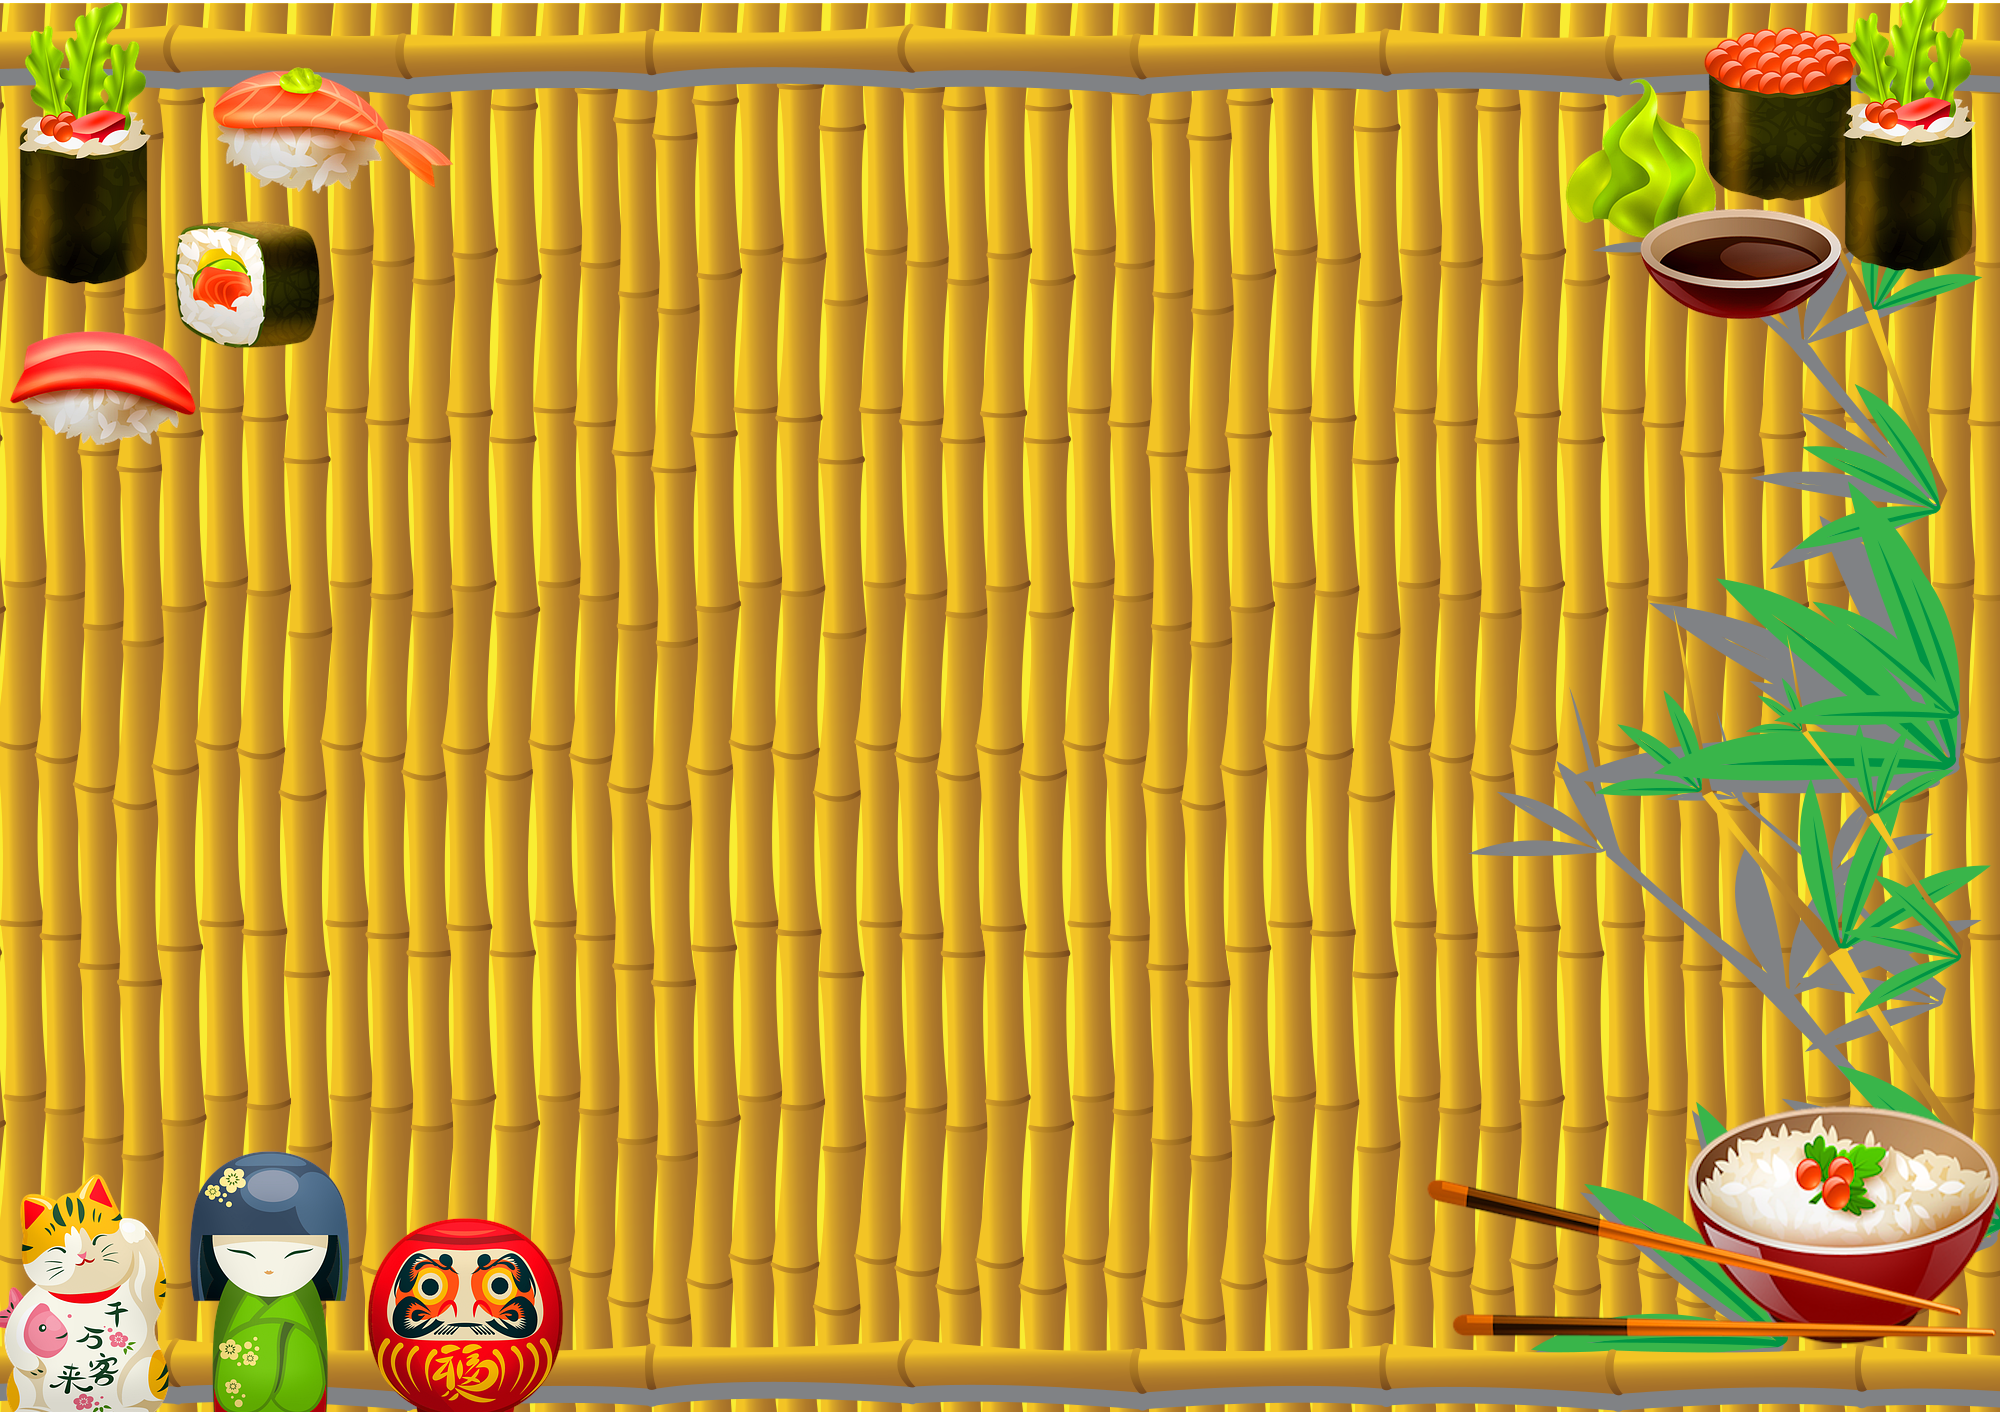
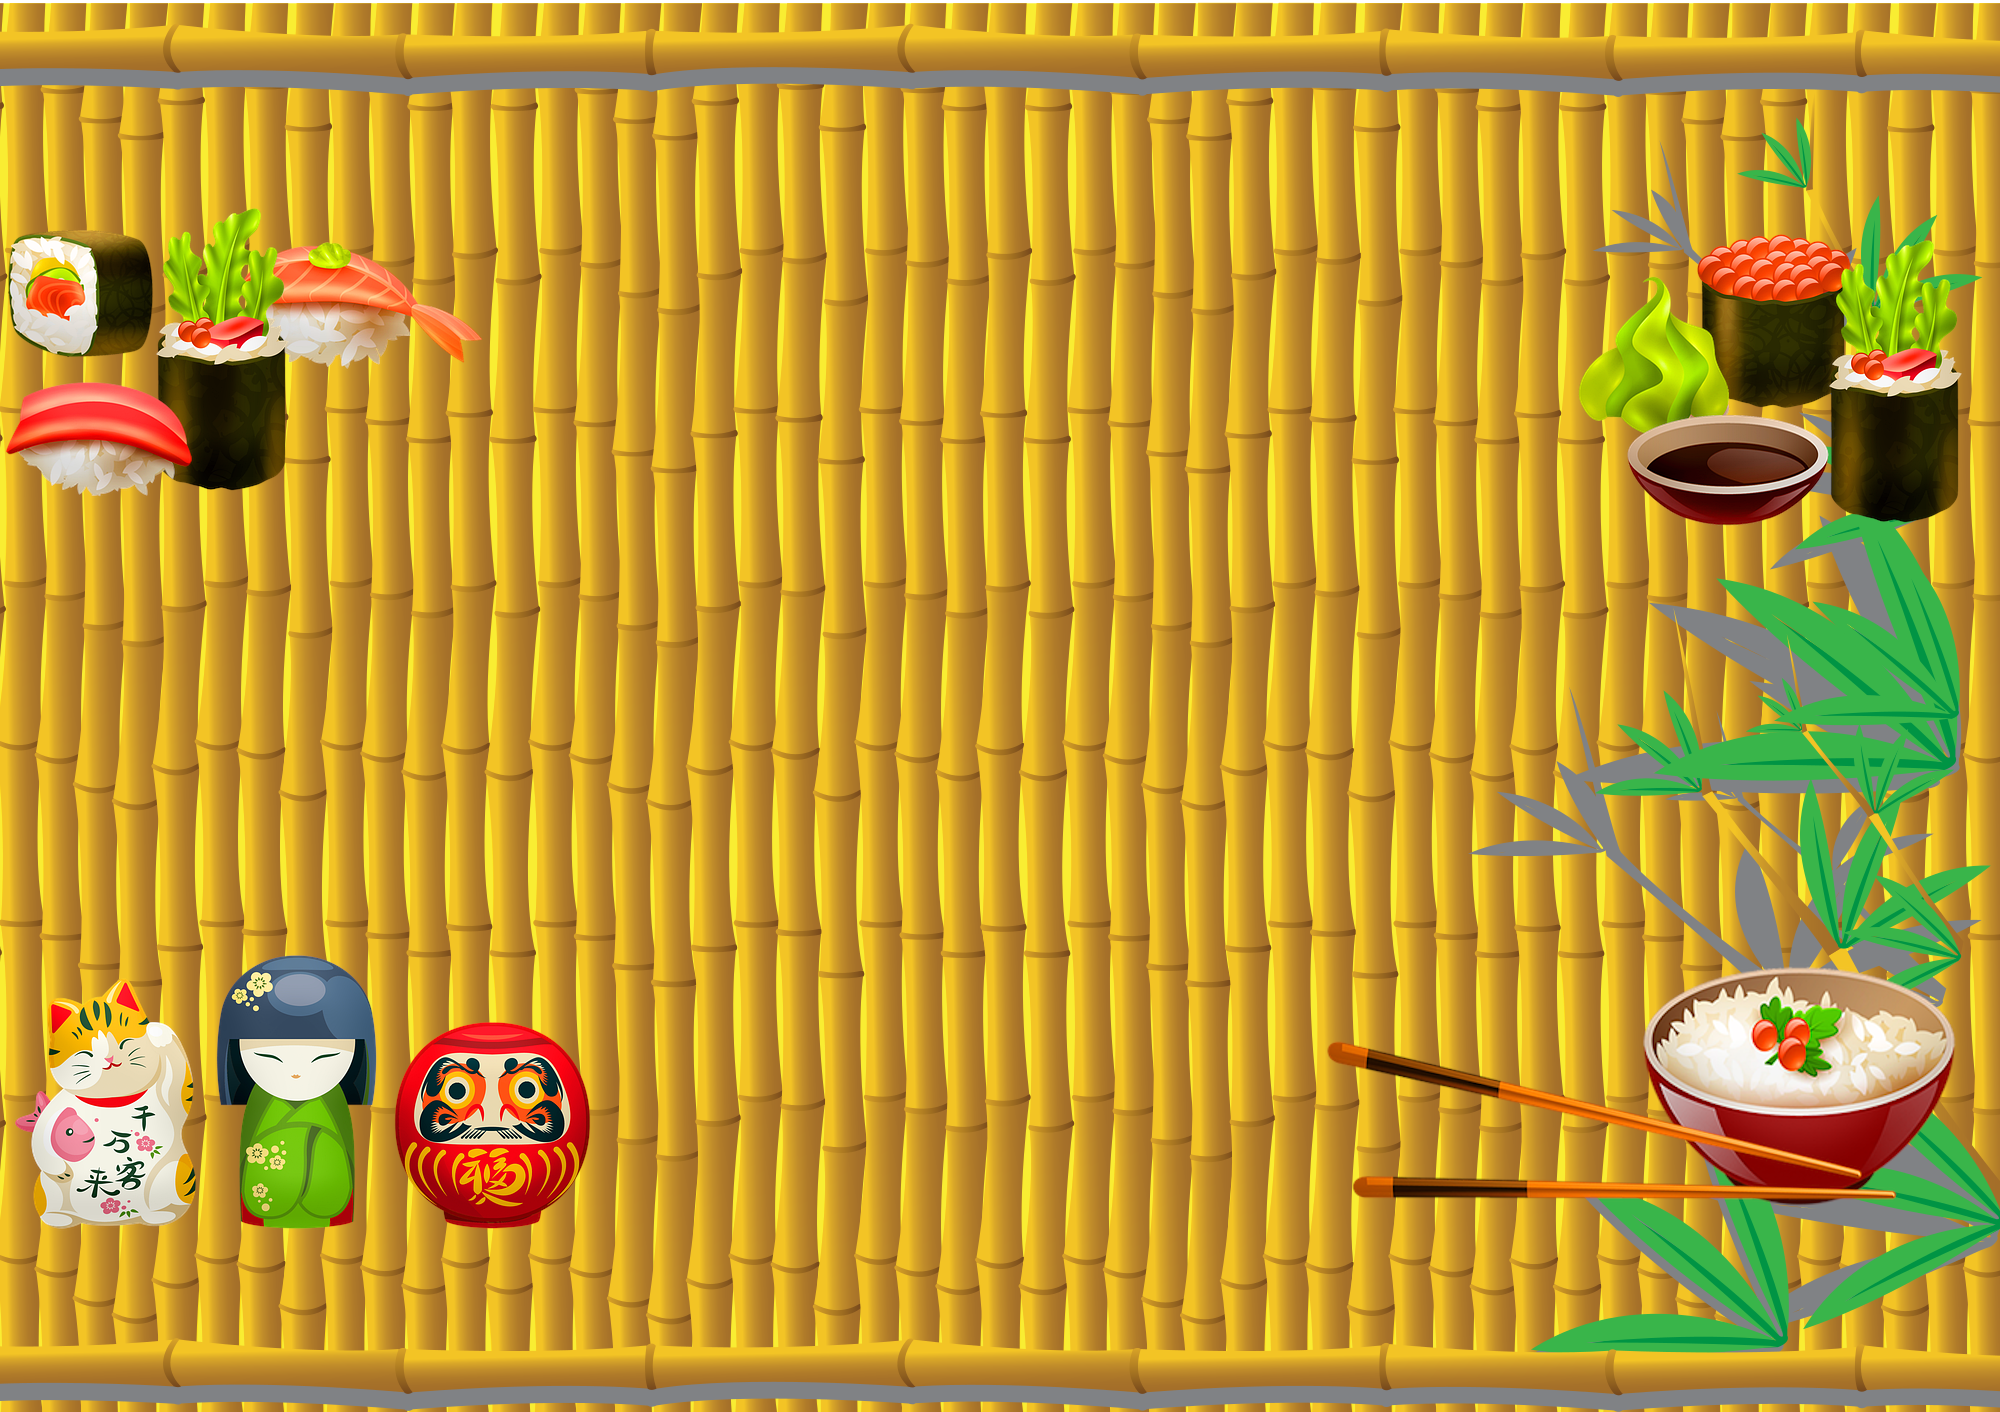
lau fix

diff --git a/assets/js/script.js b/assets/js/script.js
@@ -1,4 +1,3 @@
-
 (() => {
 
     let default_game = {
@@ -7,16 +6,16 @@
         price_multiplier: 20,
         autoclick: 0,
         price_autoclick: 100,
-        seconds: 30,        //the timer of the boost
+        seconds: 30, //the timer of the boost indicator
         boost: 1,
         price_boost: 150,
         timer_autoclick: null,
-        boostLaunch: false  //false means the boost isn't activated
+        boostLaunch: false //false means the boost isn't activated
 
     }
 
     const multiplier_augment = 2;
-    const price_augment = 3;    //the multiplier for each price
+    const price_augment = 3; //the multiplier for each price
     const speed = 1000;
 
     let my_game;
@@ -28,47 +27,46 @@
         my_game = localStorage.getItem("data");
 
         //my_game = null
-        if (!my_game){
+        if (!my_game) {
             my_game = default_game;
-        }
-        else {
+        } else {
             my_game = JSON.parse(my_game);
             my_game.timer_autoclick = setInterval(() => {
                 change_score(my_game.autoclick);
             }, speed);
-            if (my_game.boostLaunch){
+            if (my_game.boostLaunch) {
                 setTimeout(timer, speed);
             }
         }
 
 
         document.getElementById("score").innerHTML = my_game.cookie_counter;
-        document.getElementById("multiPrice").innerHTML = `Price: ${my_game.price_multiplier} sushi`;
-        document.getElementById("multi").innerHTML= `Multiplier x ${my_game.multiplier} `;
+        document.getElementById("multiPrice").innerHTML = `Cost: ${my_game.price_multiplier} Sushis`;
+        document.getElementById("multi").innerHTML = `Multiplier x ${my_game.multiplier} `;
         document.getElementById("auto").innerHTML = `${my_game.autoclick} autoclick`;
-        document.getElementById("autoPrice").innerHTML = `Price: ${my_game.price_autoclick} sushi`;
+        document.getElementById("autoPrice").innerHTML = `Cost: ${my_game.price_autoclick} Sushis`;
         document.getElementById("boost").innerHTML = `Boost: ${my_game.seconds} sec`;
-        document.getElementById("boostPrice").innerHTML = `Price: ${my_game.price_boost} sushi`;
+        document.getElementById("boostPrice").innerHTML = `Cost: ${my_game.price_boost} Sushis`;
 
     }
 
     function save_game() {
         /*
-            save_game() put the data of game on the localStorage
+            save_game() puts the data of game on the localStorage
         */
         localStorage.setItem("data", JSON.stringify(my_game));
         console.log("save");
         setTimeout(save_game, 10000);
     }
 
-    function timer(){
+    function timer() {
         /*
-            timer() is the time that the boost is activated
+            timer() is the time for which the boost is activated
         */
         my_game.seconds--;
 
         //boost is still activated
-        if(my_game.seconds > 0){
+        if (my_game.seconds > 0) {
             setTimeout(timer, speed);
         }
         //boost ended and must be reset
@@ -82,9 +80,9 @@
 
     }
 
-    function check_button(){
+    function check_button() {
         /*
-            check_button() check is each upgrade is buyable
+            check_button() check if each upgrade is buyable
         */
         document.getElementById("multi").disabled = my_game.cookie_counter < my_game.price_multiplier;
         document.getElementById("auto").disabled = my_game.cookie_counter < my_game.price_autoclick;
@@ -92,12 +90,12 @@
 
     }
 
-    function change_score(value){
+    function change_score(value) {
         /*
-            change_score() modify the score of the game
+            change_score() modifies the score of the game
         */
-       //new high score
-        if (value >= 0){
+        //new high score
+        if (value >= 0) {
             my_game.cookie_counter += (value * my_game.boost);
         }
         //buy at the store
@@ -116,20 +114,20 @@
 
     /* Multiplier button */
     document.getElementById("multi").addEventListener("click", () => {
-        
+
         my_game.price_multiplier *= price_augment;
         //give the previous price
         change_score(-(my_game.price_multiplier / price_augment));
         my_game.multiplier *= multiplier_augment;
-        
-        document.getElementById("multiPrice").innerHTML = `Price: ${my_game.price_multiplier} sushi`;
-        document.getElementById("multi").innerHTML= `Multiplier x ${my_game.multiplier} `;
+
+        document.getElementById("multiPrice").innerHTML = `Cost: ${my_game.price_multiplier} Sushis`;
+        document.getElementById("multi").innerHTML = `Multiplier x ${my_game.multiplier} `;
 
 
     });
     /* Autoclick*/
     document.getElementById("auto").addEventListener("click", () => {
-        
+
         if (my_game.autoclick == 0) {
             my_game.timer_autoclick = setInterval(() => {
                 change_score(my_game.autoclick);
@@ -137,11 +135,11 @@
         }
         my_game.autoclick++;
         my_game.price_autoclick *= price_augment;
-        //give the previous price
+        //gives the previous price
         change_score(-(my_game.price_autoclick / price_augment));
 
         document.getElementById("auto").innerHTML = `${my_game.autoclick} autoclick`;
-        document.getElementById("autoPrice").innerHTML = `Price: ${my_game.price_autoclick} sushi`;
+        document.getElementById("autoPrice").innerHTML = `Cost: ${my_game.price_autoclick} Sushis`;
 
     });
     /* Boost button */
@@ -149,17 +147,17 @@
 
         my_game.boostLaunch = true;
 
-        my_game.price_boost*= price_augment;
-        //give the previous price
+        my_game.price_boost *= price_augment;
+        //gives the previous price
         change_score(-(my_game.price_boost / price_augment));
-        
+
         my_game.boost = 3;
 
         setTimeout(timer, speed);
-        document.getElementById("boostPrice").innerHTML = `Price: ${my_game.price_boost} sushi`;
+        document.getElementById("boostPrice").innerHTML = `Cost: ${my_game.price_boost} Sushis`;
     });
 
-    
+
     clear_game();
     check_button();
     setTimeout(save_game, 10000);

diff --git a/index.html b/index.html
@@ -18,51 +18,50 @@
                 <h1>Sushi Clicker</h1>
             </div>
         </div>
-    </div>
 
-    <div class="row">
-        <div class="col-12">
-            <div class="material field with-indicator">
-                <span id="score" class="indicator1">000</span>
+        <div class="row">
+            <div class="col-12">
+                <div class="material field with-indicator">
+                    <span id="score" class="counter">000</span>
+                </div>
             </div>
+
         </div>
 
-    </div>
-
-    <div class="row">
-        <div class="col-12">
-            <button class="btn" id="cookie">
+        <div class="row">
+            <div class="col-12">
+                <a class="btn" id="cookie">
                     <img src="assets/img/sushi.png" alt="Clickable cookie" id="cook">
-            </button>
+                </a>
+            </div>
         </div>
-    </div>
 
-    <div class="row">
-        <div class="col-12 col-lg-4">
-            <div class="row">
-                <button class="btn1" id="multi">Multiplier x 1</button>
+        <div class="row">
+            <div class="col-12 col-lg-4">
+                <div class="row">
+                    <button class="btn1" id="multi">Multiplier x 1</button>
+                </div>
+                <div class="row">
+                    <span id="multiPrice" class="material cost">Cost: 20 Sushis</span>
+                </div>
             </div>
-            <div class="row">
-                <span id="multiPrice" class="material indicator">Cost: 20 Sushis</span>
+            <div class="col-12 col-lg-4">
+                <div class="row">
+                    <button class="btn1" id="auto">autoclick</button>
+                </div>
+                <div class="row">
+                    <span id="autoPrice" class=" material cost">Cost: 100 Sushis</span>
+                </div>
+            </div>
+            <div class="col-12 col-lg-4">
+                <div class="row">
+                    <button class="btn1" id="boost">Boost: 30 sec</button>
+                </div>
+                <div class="row">
+                    <span id="boostPrice" class="material cost">Cost: 150 Sushis</span>
+                </div>
             </div>
         </div>
-        <div class="col-12 col-lg-4">
-            <div class="row">
-                <button class="btn1" id="auto">autoclick</button>
-            </div>
-            <div class="row">
-                <span id="autoPrice" class=" material indicator">Cost: 100 Sushis</span>
-            </div>
-        </div>
-        <div class="col-12 col-lg-4">
-            <div class="row">
-                <button class="btn1" id="boost">Boost: 30 sec</button>
-            </div>
-            <div class="row">
-                <span id="boostPrice" class="material indicator">Cost: 150 Sushis</span>
-            </div>
-        </div>
-    </div>
     </div>
 
 

diff --git a/assets/css/style.css b/assets/css/style.css
@@ -1,25 +1,13 @@
         body {
-            background: url("../img/background2.png") no-repeat center center fixed;
+            background: url("../img/background.png") no-repeat center center fixed;
             background-size: cover;
             text-align: center;
-        }
-        
-        .btn1 {
-            margin-left: 50%;
-            margin-right: 50%;
-            margin: auto;
         }
         
         #cook {
             height: 300px;
             width: auto;
             display: block;
-        }
-        
-        .btn1 {
-            margin-left: 50%;
-            margin-right: 50%;
-            margin: auto;
         }
         
         .btn1 {
@@ -47,6 +35,9 @@
             text-decoration: none;
             text-shadow: 0px 0px 0px #ffffff;
             font-family: china;
+            margin-left: 50%;
+            margin-right: 50%;
+            margin: auto;
         }
         
         .btn1:hover {
@@ -60,11 +51,11 @@
             background-color: #dfdfdf;
         }
         
-        .indicator {
+        .cost {
             text-align: center;
             font-size: 2em;
             font-style: italic;
-            background-color: yellowgreen;
+            background-color: rgb(87, 129, 3);
             margin: 10px;
             border-radius: 5px;
             color: white;
@@ -92,7 +83,7 @@
             text-shadow: 8px 8px #4e4e4e;
         }
         
-        .indicator1 {
+        .counter {
             font-size: 6em;
             font-family: china;
             color: white;
